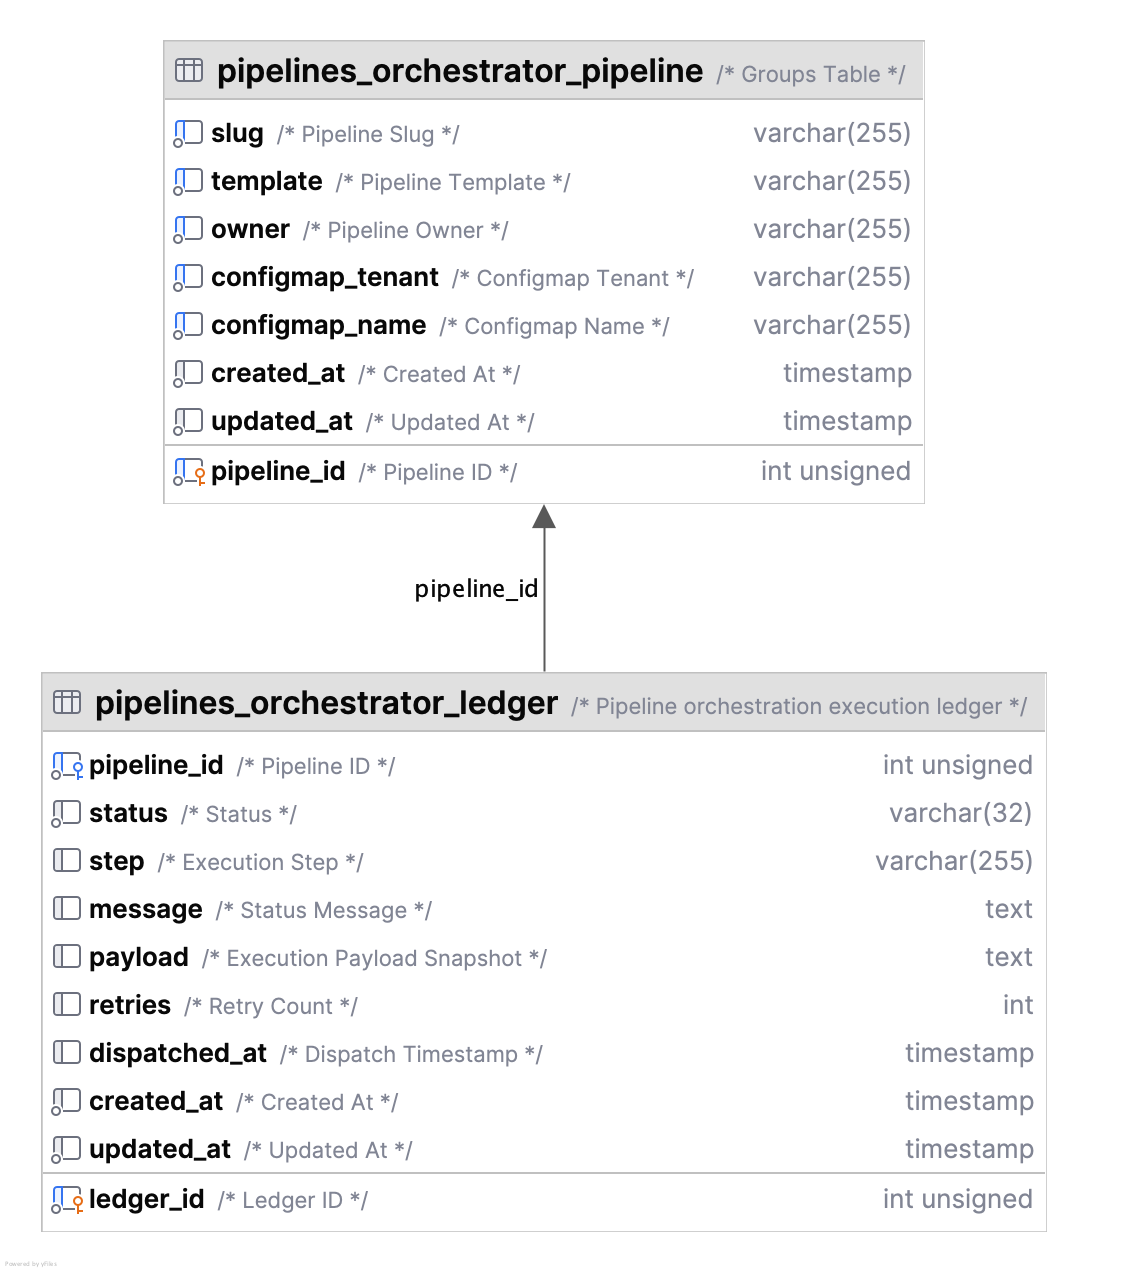
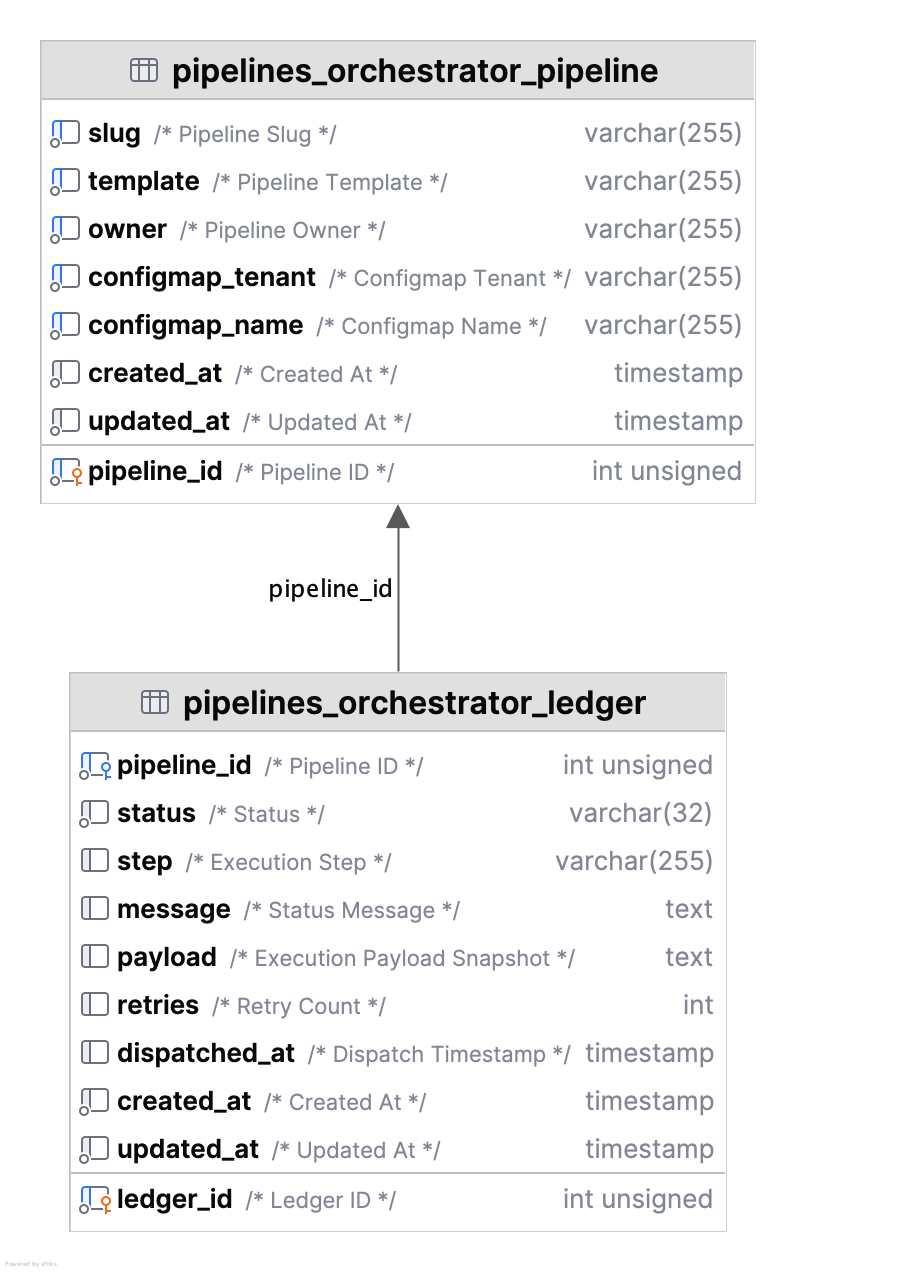
update

diff --git a/Architecture/pipelines_orchestrator_model.md b/Architecture/pipelines_orchestrator_model.md
@@ -1,0 +1,26 @@
+classDiagram
+direction BT
+class pipelines_orchestrator_ledger {
+   int unsigned pipeline_id  /* Pipeline ID */
+   varchar(32) status  /* Status */
+   varchar(255) step  /* Execution Step */
+   text message  /* Status Message */
+   text payload  /* Execution Payload Snapshot */
+   int retries  /* Retry Count */
+   timestamp dispatched_at  /* Dispatch Timestamp */
+   timestamp created_at  /* Created At */
+   timestamp updated_at  /* Updated At */
+   int unsigned ledger_id  /* Ledger ID */
+}
+class pipelines_orchestrator_pipeline {
+   varchar(255) slug  /* Pipeline Slug */
+   varchar(255) template  /* Pipeline Template */
+   varchar(255) owner  /* Pipeline Owner */
+   varchar(255) configmap_tenant  /* Configmap Tenant */
+   varchar(255) configmap_name  /* Configmap Name */
+   timestamp created_at  /* Created At */
+   timestamp updated_at  /* Updated At */
+   int unsigned pipeline_id  /* Pipeline ID */
+}
+
+node1  -->  node0 : pipeline_id
